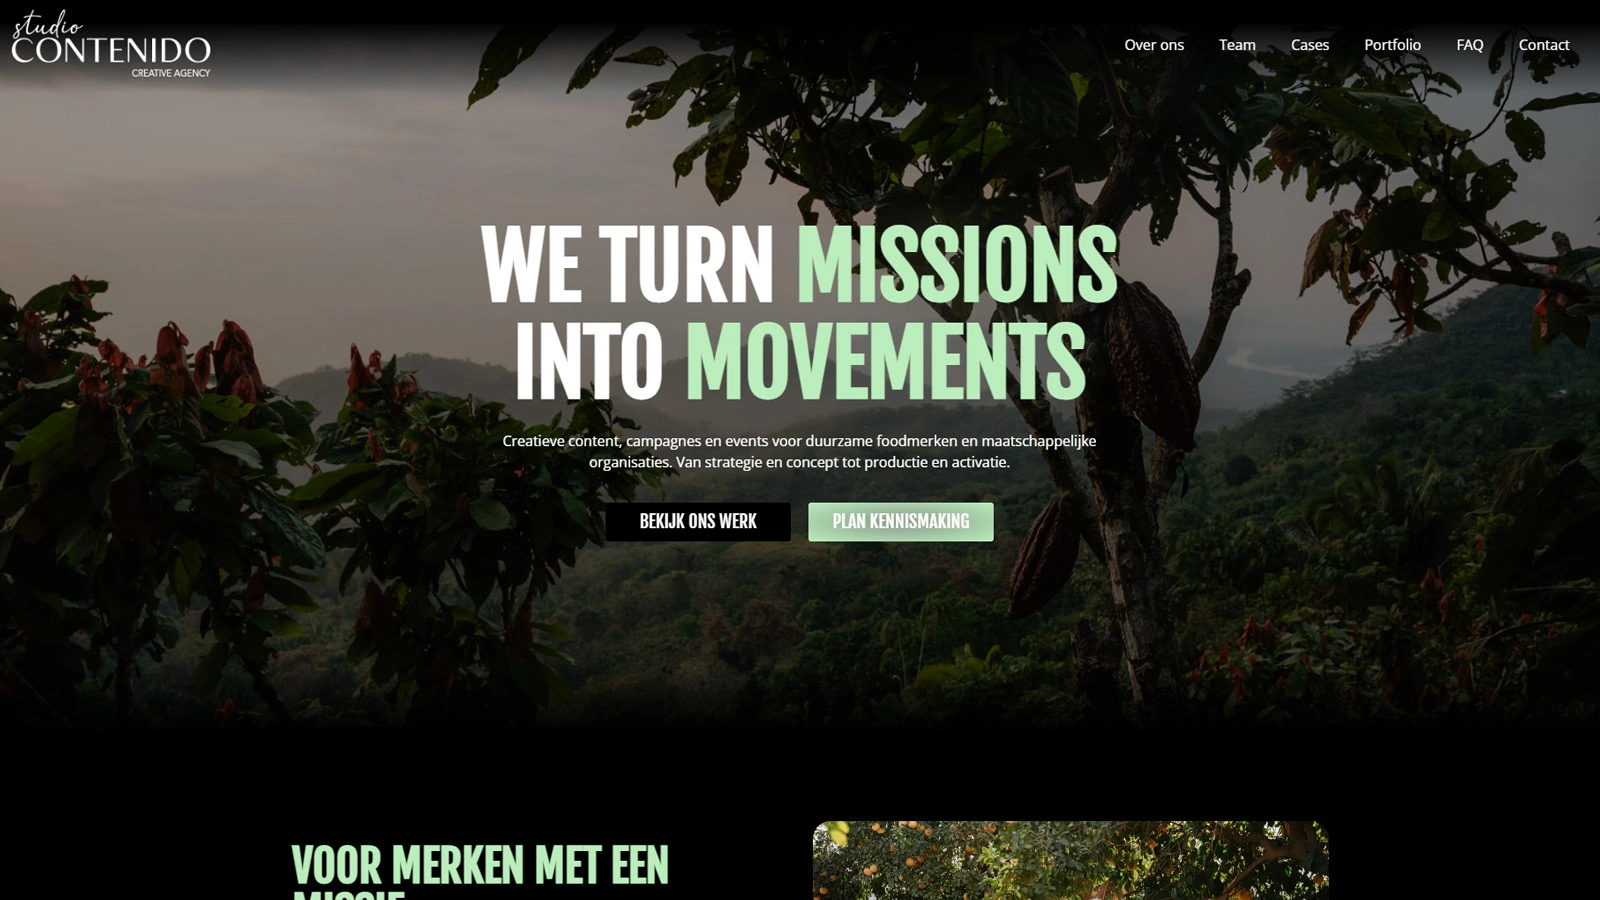
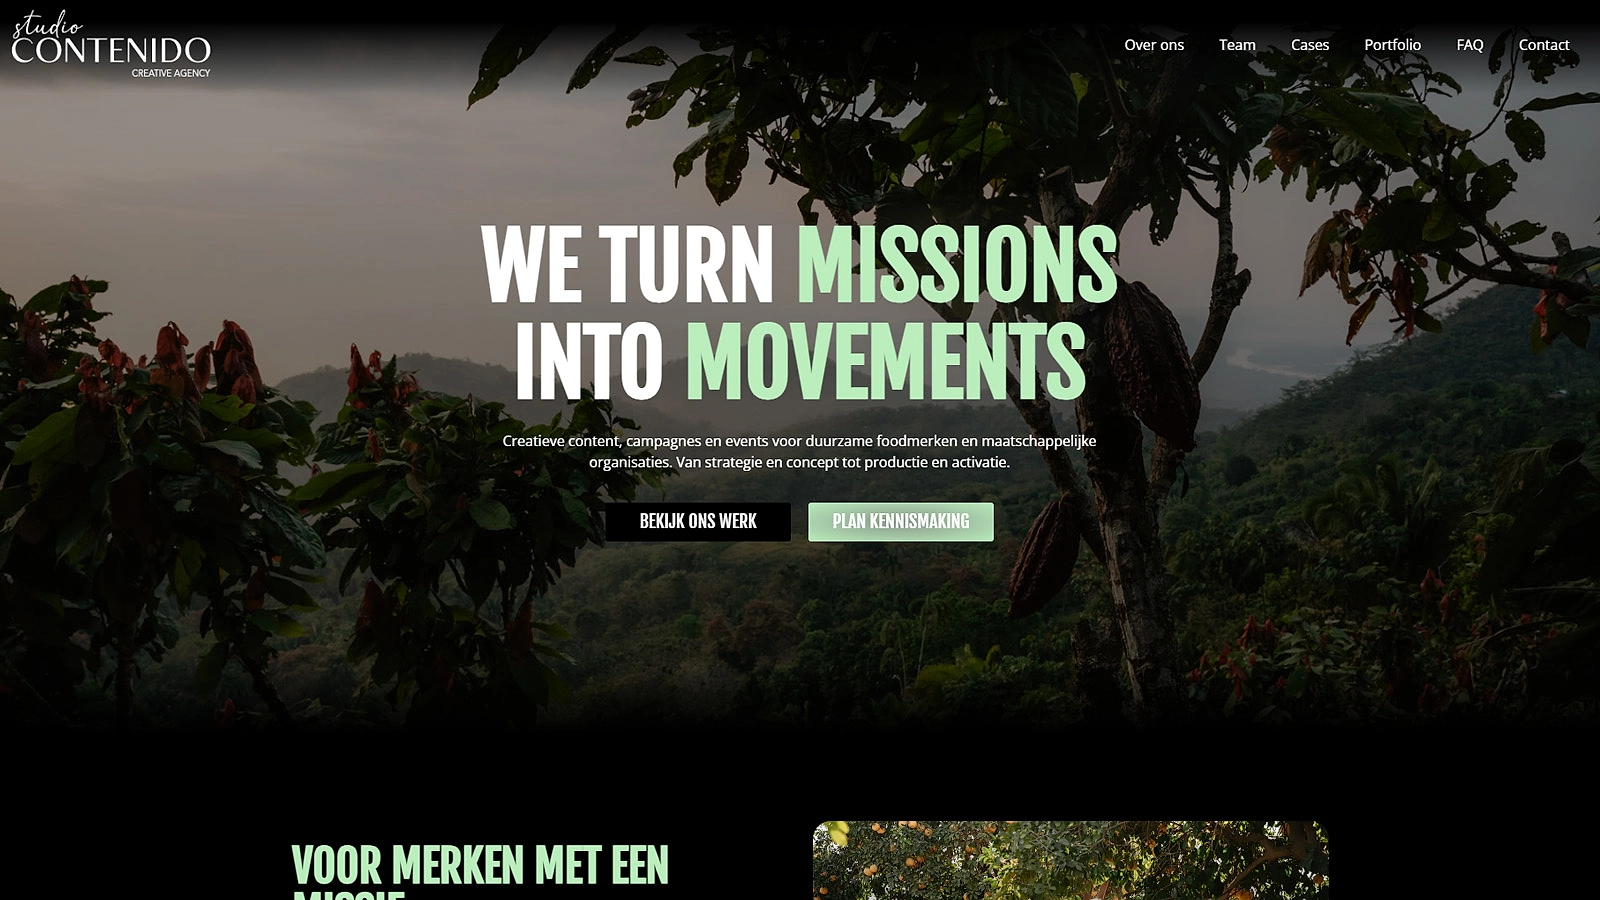
Opfris v3: €399, cross-sell teal blok, scherpere assets, projecten-CTA
- €299 → €399 (Calvin wil weg van cheap-segment, niet typo)
- Teal "Persoonlijke aanpak" blok herschreven naar cross-sell richting
  onderhoudspakketten (verving dubbele content van het modules-blok
  erboven). 2-koloms layout met sneak-preview van de Standard Care
  pricing-card rechts, purple pill + purple knop voor contrast op
  teal. Internal link naar /website-onderhoud (SEO + UX bonus)
- CTA "Bekijk meer projecten ↗" onder de BeforeAfter-slider, naar
  /projecten
- Studio Contenido webp opnieuw geconverteerd op quality 100 +
  sharpen(sigma 0.6) — 371-381kB ipv 254kB, voelbaar scherper.
  Bron-JPG is 1600x900; voor crystal-clear op groter retina-scherm
  heb je hogere-res origineel nodig (>2400px breed)
- froseo-logo-wit.webp opnieuw geëxporteerd uit PNG-bron (1920x430):
  nu 1600x358 (was 400x90), 4x scherper voor het watermark op de
  modules-section

diff --git a/src/styles/global.css b/src/styles/global.css
@@ -7410,57 +7410,179 @@ main { display: contents; }
   .opfris-modules-watermark { width: 90vw; }
 }
 
-/* --- Persoonlijke-aanpak sectie op teal bg (groen ritme) --- */
-.opfris-aanpak {
-  padding: 80px var(--gutter);
+/* --- BeforeAfter CTA-rij onderaan de slider --- */
+.opfris-ba-cta {
+  display: flex;
+  justify-content: center;
+  margin-top: 32px;
+}
+
+/* --- Cross-sell naar onderhoudspakketten — teal bg, 2-koloms met
+   sneak-pakketten-card rechts. Purple pill + button voor contrast,
+   sterk visueel ritme tegen de teal bg. --- */
+.opfris-cross {
+  padding: 96px var(--gutter);
   background-color: var(--color-teal);
   color: var(--color-white);
   border-top: var(--border);
   border-bottom: var(--border);
 }
-.opfris-aanpak-inner {
-  max-width: 760px;
+.opfris-cross-inner {
+  max-width: var(--container-max);
   margin: 0 auto;
+  display: grid;
+  grid-template-columns: 1.2fr 1fr;
+  gap: 56px;
+  align-items: center;
+}
+.opfris-cross-text {
   display: flex;
   flex-direction: column;
   align-items: flex-start;
   gap: 16px;
 }
-.opfris-aanpak-title {
+.opfris-cross-title {
   font-family: var(--font-display);
-  font-size: clamp(28px, 3.8vw, 48px);
+  font-size: clamp(30px, 4vw, 52px);
   font-weight: 900;
   line-height: 1.05;
   letter-spacing: -0.02em;
   color: var(--color-white);
   margin: 4px 0 6px;
 }
-.opfris-aanpak-title em {
+.opfris-cross-title em {
   font-style: normal;
-  /* Geel als contrast op teal — past in het palet, leesbaar en niet
-     pink (anders past het minder bij brand-teal). */
+  /* Geel als contrast-accent op teal. Past in palet, hoog leesbaar. */
   color: var(--accent-highlight);
 }
-.opfris-aanpak-body {
+.opfris-cross-body {
   font-size: 17px;
   line-height: 1.65;
   color: rgba(255, 255, 255, 0.92);
   margin: 0;
-  max-width: 60ch;
+  max-width: 56ch;
 }
-.opfris-aanpak-cta {
-  /* Wit met donkere tekst — sterkste contrast op teal en past bij
-     onze "primary action"-look. */
+/* Cross-sell CTA: purple bg + white text. Onafhankelijk van --action-bg
+   omdat we hier bewust de zware tegen-kleur willen op teal. */
+.btn-cross {
+  display: inline-flex;
+  align-items: center;
+  gap: 10px;
+  padding: 16px 28px;
+  font-family: var(--font-display);
+  font-size: 15px;
+  font-weight: 700;
+  letter-spacing: -0.01em;
+  background: var(--color-purple);
+  color: var(--color-white);
+  border: var(--border);
+  border-radius: var(--radius-action);
+  box-shadow: 6px 6px 0 var(--color-purple-deep);
+  transition: all var(--transition-fast);
   margin-top: 16px;
+}
+.btn-cross:hover {
+  background: var(--color-purple-strong);
+  transform: translate(-3px, -3px);
+  box-shadow: 9px 9px 0 var(--color-purple-deep);
+}
+
+/* Sneak-pakketten-card — een mini-versie van de Standard Care
+   pricing-card uit /website-onderhoud. Decoratief (aria-hidden) maar
+   geeft direct visueel houvast aan het cross-sell-aanbod. */
+.opfris-cross-card {
   background: var(--color-white);
+  border: var(--border);
+  border-radius: var(--radius-xl);
+  padding: 28px 28px 32px;
+  box-shadow: 8px 8px 0 var(--color-purple-deep);
+  color: var(--text-primary);
+  position: relative;
+  max-width: 360px;
+  justify-self: end;
+}
+.opfris-cross-card-badge {
+  position: absolute;
+  top: -12px;
+  left: 50%;
+  transform: translateX(-50%);
+  background: var(--color-purple);
+  color: var(--color-white);
+  font-family: var(--font-mono);
+  font-size: 10px;
+  font-weight: 700;
+  letter-spacing: 0.12em;
+  text-transform: uppercase;
+  padding: 5px 14px;
+  border-radius: var(--radius-full);
+  border: var(--border);
+  white-space: nowrap;
+}
+.opfris-cross-card-name {
+  font-family: var(--font-display);
+  font-size: 17px;
+  font-weight: 800;
+  letter-spacing: -0.01em;
+  margin-top: 6px;
+  margin-bottom: 8px;
   color: var(--text-primary);
 }
-.opfris-aanpak-cta:hover {
-  background: var(--color-white);
+.opfris-cross-card-price {
+  display: flex;
+  align-items: flex-start;
+  gap: 2px;
+  font-family: var(--font-display);
+  margin-bottom: 18px;
+  color: var(--color-teal);
+}
+.opfris-cross-card-currency {
+  font-size: 22px;
+  font-weight: 900;
+  margin-top: 12px;
+}
+.opfris-cross-card-amount {
+  font-size: 56px;
+  font-weight: 900;
+  line-height: 1;
+  letter-spacing: -0.03em;
+}
+.opfris-cross-card-period {
+  font-size: 16px;
+  font-weight: 600;
+  margin-top: 30px;
   color: var(--text-primary);
+  opacity: 0.7;
+}
+.opfris-cross-card-list {
+  list-style: none;
+  padding: 0;
+  margin: 0;
+  display: flex;
+  flex-direction: column;
+  gap: 8px;
+}
+.opfris-cross-card-list li {
+  position: relative;
+  padding-left: 22px;
+  font-size: 13px;
+  line-height: 1.4;
+  color: var(--text-primary);
+}
+.opfris-cross-card-list li::before {
+  content: '✓';
+  position: absolute;
+  left: 0;
+  top: 0;
+  color: var(--color-teal);
+  font-weight: 900;
+}
+@media (max-width: 900px) {
+  .opfris-cross-inner { grid-template-columns: 1fr; gap: 40px; }
+  .opfris-cross-card { justify-self: start; max-width: 360px; width: 100%; }
 }
 @media (max-width: 640px) {
-  .opfris-aanpak { padding: 56px var(--gutter-mobile); }
+  .opfris-cross { padding: 64px var(--gutter-mobile); }
+  .opfris-cross-card { padding: 24px 22px 26px; }
 }
 
 /* --- Waarom-blok (cream bg, klassiek text-blok) --- */
